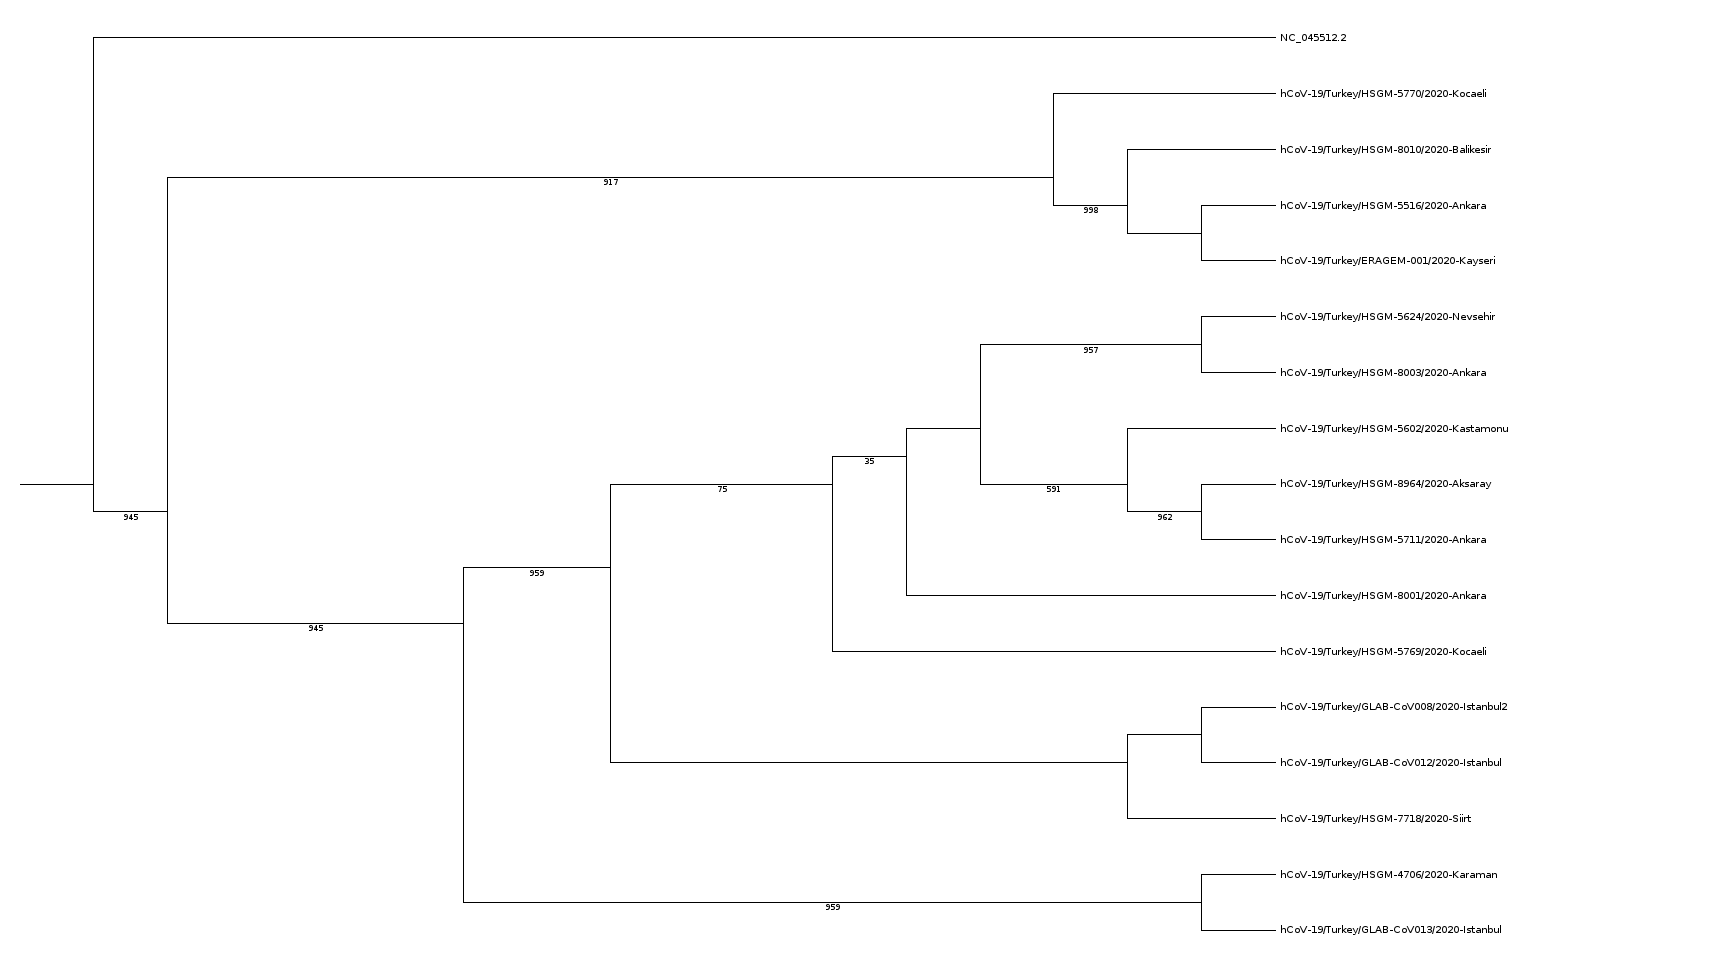
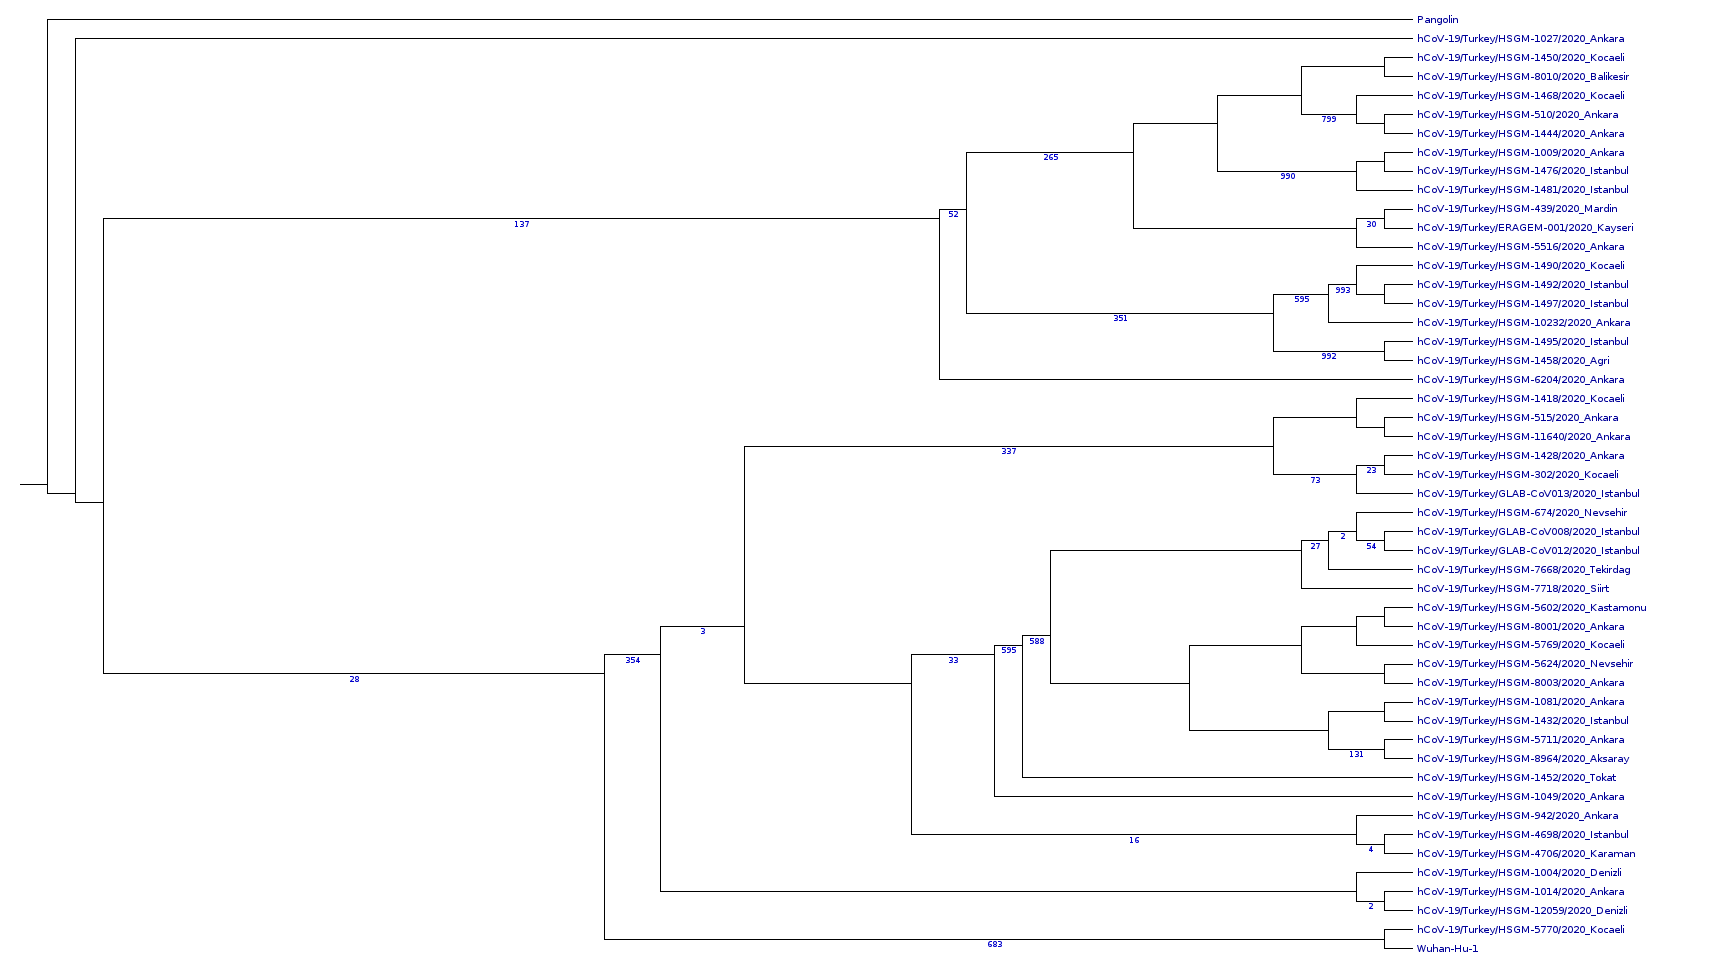
update May 11, 2020

diff --git a/README.md b/README.md
@@ -4,7 +4,7 @@ Bu sayfada Türkiye’deki SARS-CoV-2 virüs dizilerinin özetini sunuyoruz:
  * [Filogenetik analiz için tıklayın.](http://covid19.alkanlab.org/ncov?c=city&r=city)
  * Türkiye’deki virüs dizilerinin filogenetik analizi [Auspice](https://github.com/nextstrain/auspice) kullanılarak hazırlanmıştır. 
  * Ağaç [GISAID](https://www.gisaid.org/)'de yayınlanan Türkiye'den virüsler ile birlikte Çin'den 4 virüs genomu ile hazırlanmıştır. 
- * Neighbor-Joining yöntemi ile oluşturulan ağaç için 1000 bootstrap tekrarı yapılmıştır.
+ * Neighbor-Joining yöntemi ile oluşturulan ağaç için 1000 bootstrap tekrarı yapılmıştır, ve pangolinden elde edilen virüs dış grup olarak kullanılmıştır.
  * Bütün diziler en az %95 tamamlanmıştır ve yüksek kalitelidir.
  * [GISAID](https://www.gisaid.org/)'den elde edilen veriler sadece [GISAID](https://www.gisaid.org/) web sayfasından indirilebilir. Ancak kullandığımız verilerin detayları ve teşekkür bilgisi [bu dosyadan](https://github.com/BilkentCompGen/tr-covid/blob/master/metadata.tsv) görülebilir. 
 
